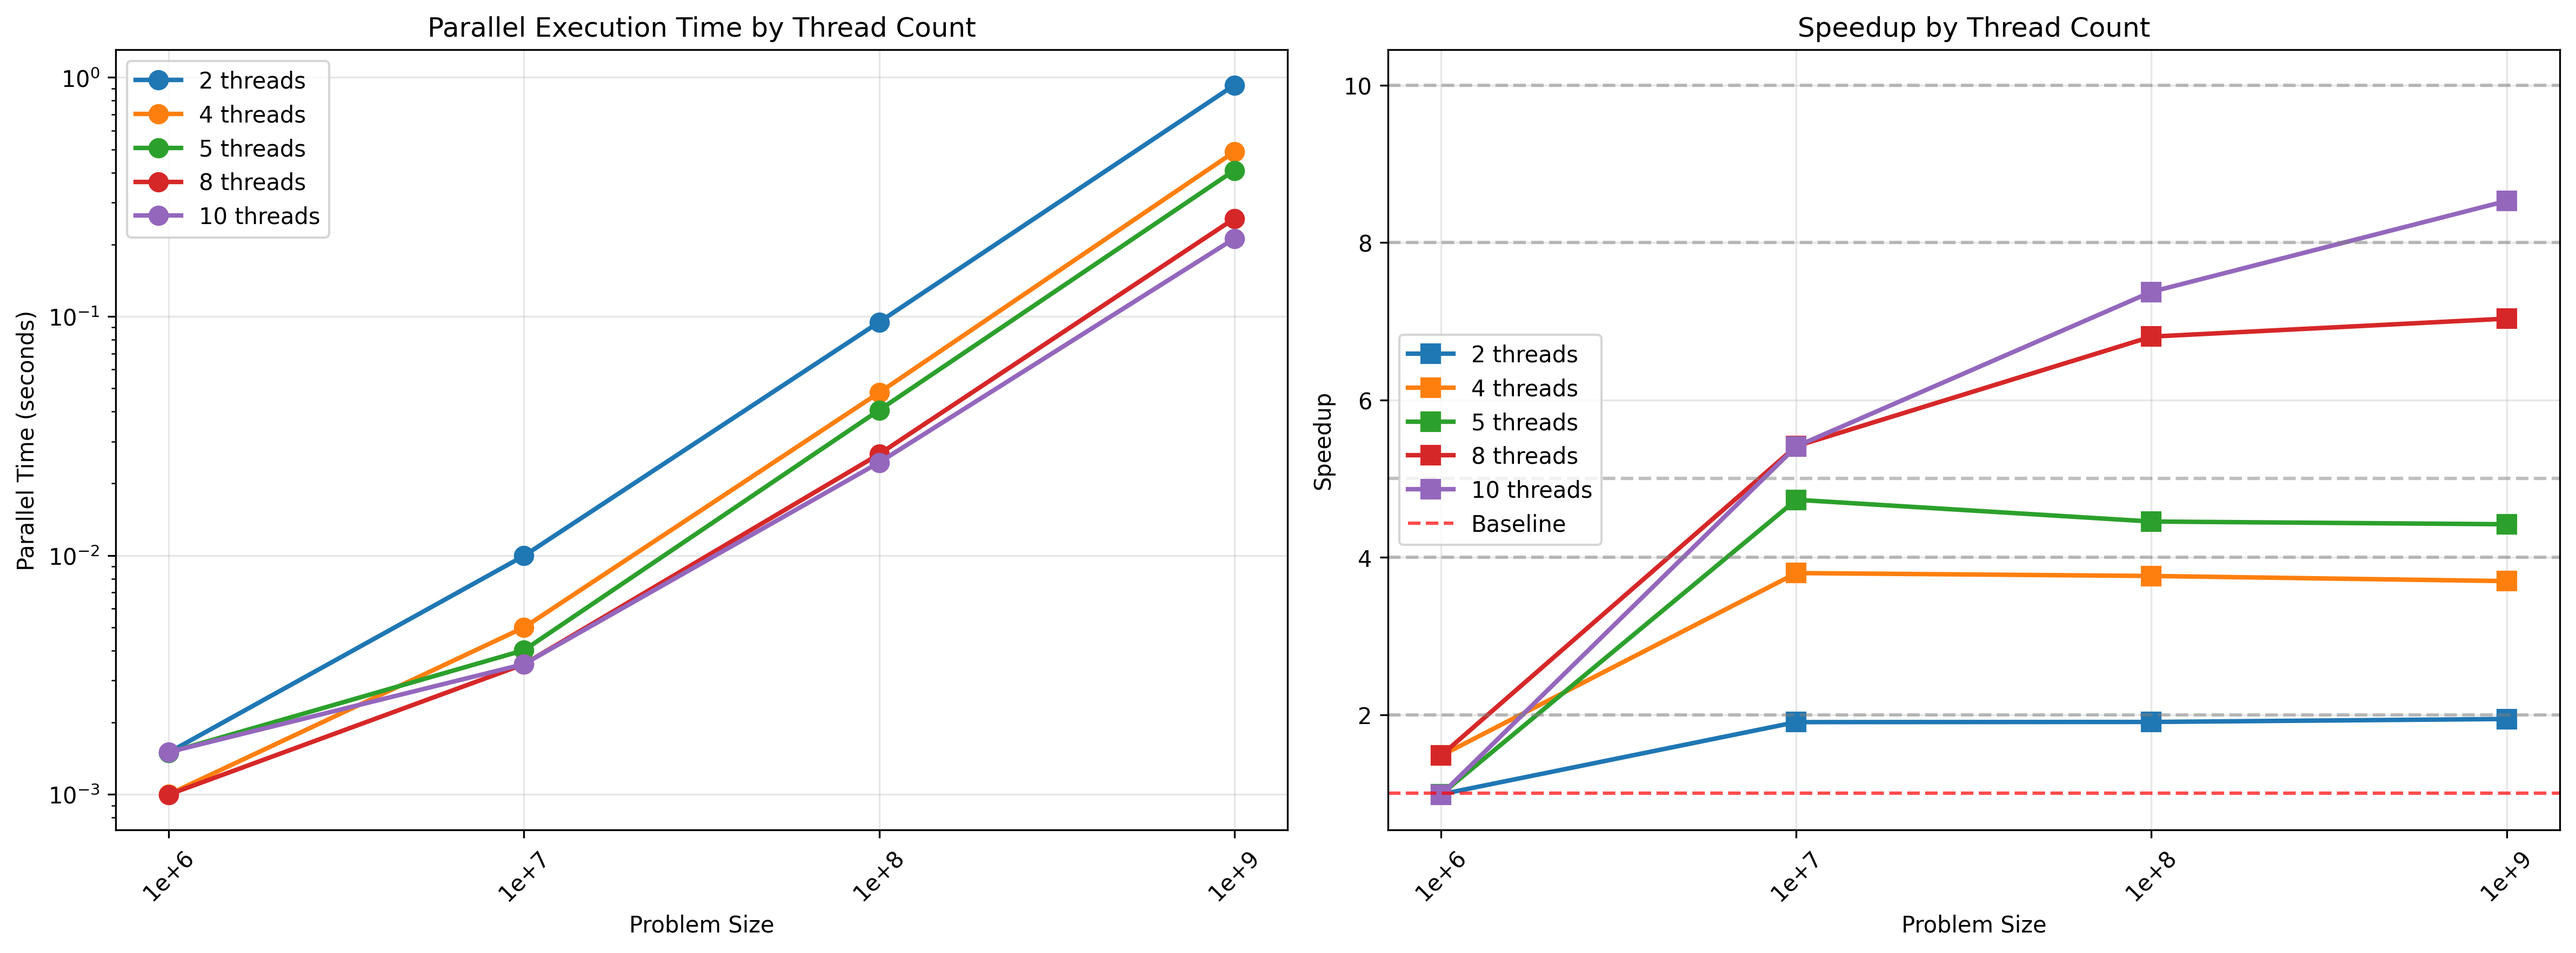
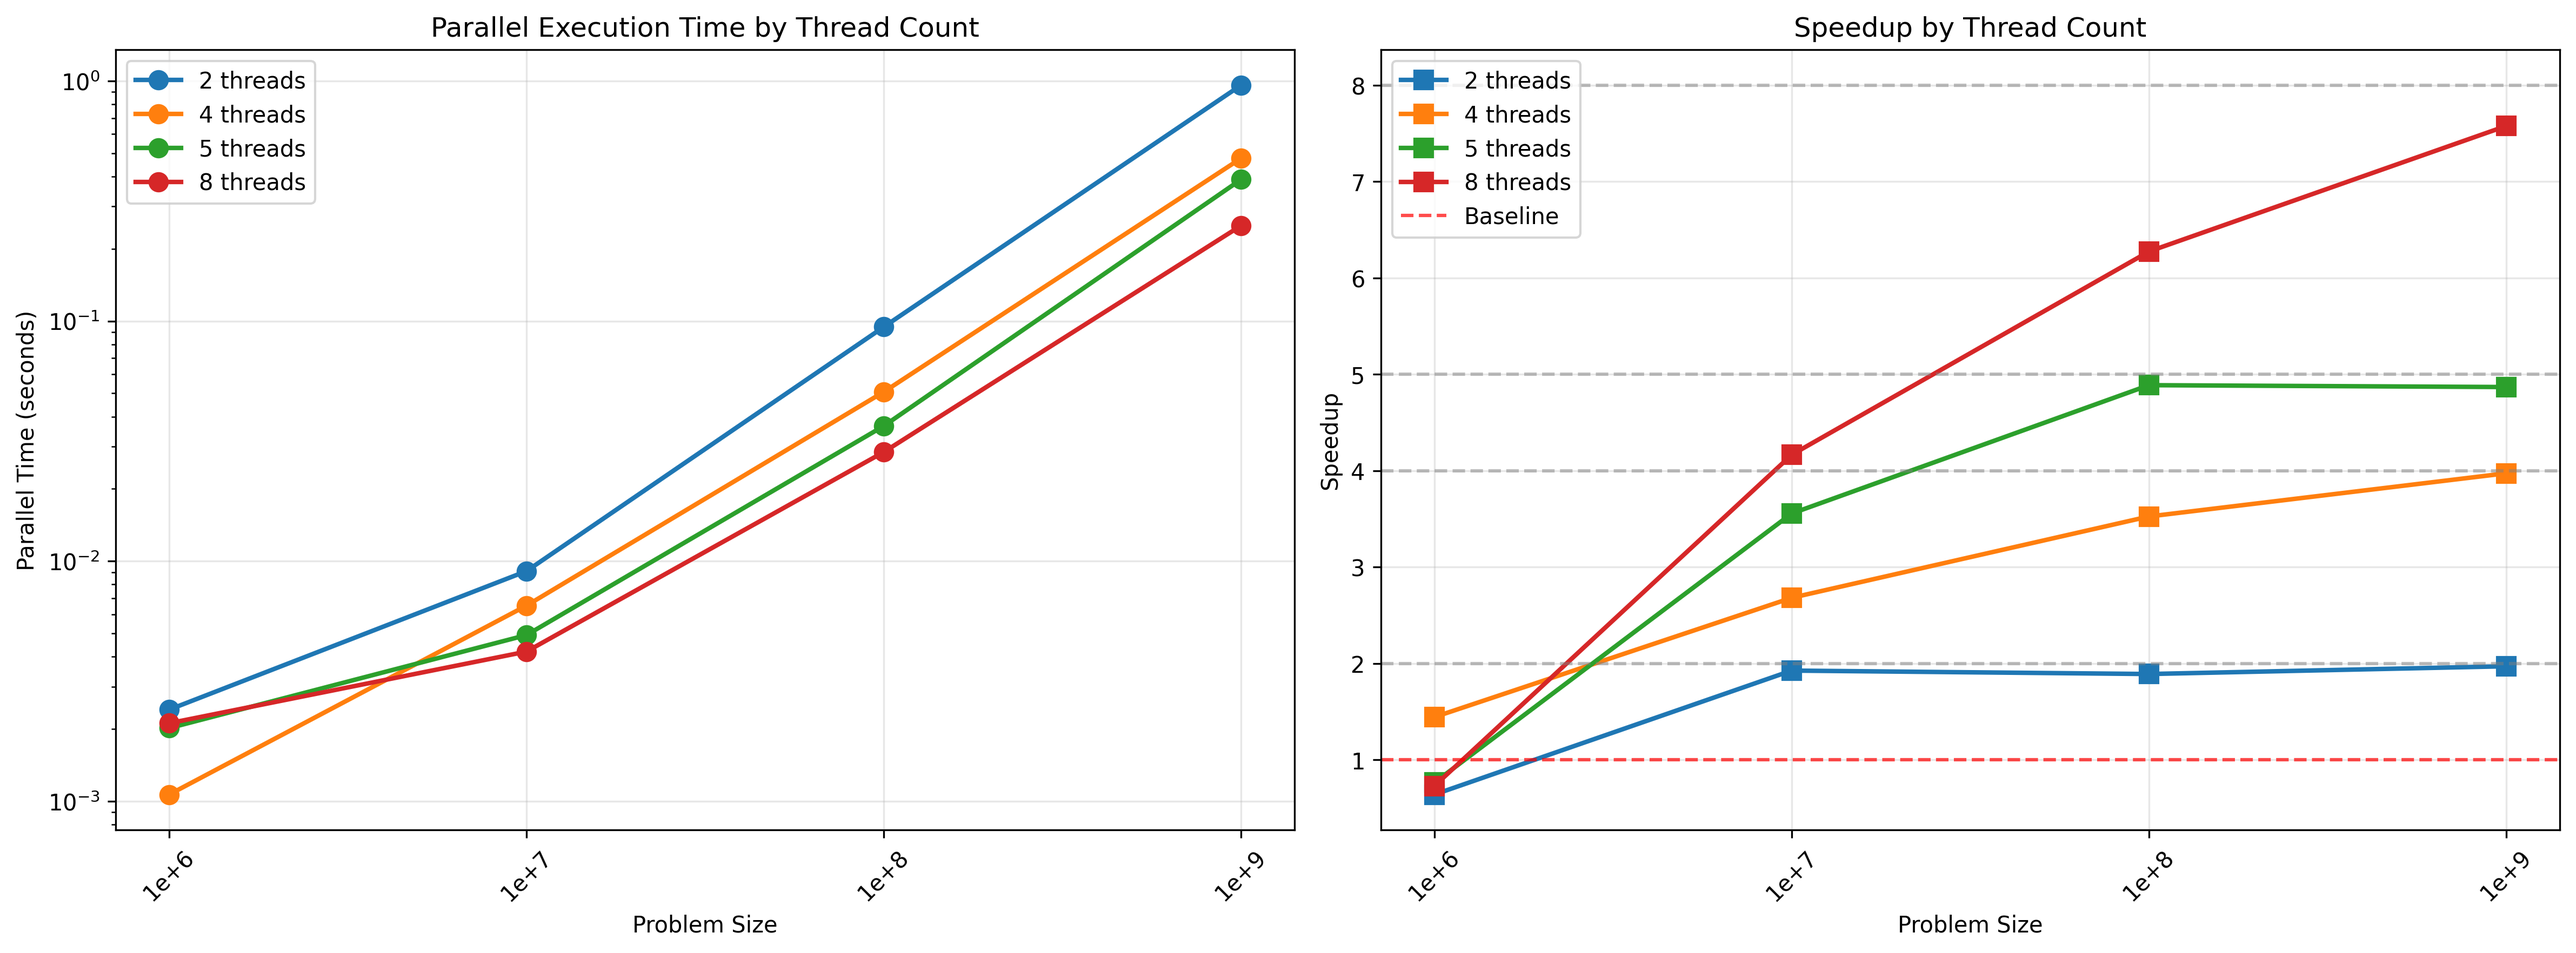
update num threads

diff --git a/plot_results2.py b/plot_results2.py
@@ -57,7 +57,7 @@ def read_and_process_data(filename):
         serial_time = row['serial_time']
         
         # Untuk setiap konfigurasi thread
-        for thread_col in [ 'nt2_time', 'nt4_time','nt5_time', 'nt8_time','nt10_time']:
+        for thread_col in [ 'nt2_time', 'nt4_time','nt5_time', 'nt8_time']:
             if thread_col in row:
                 # Ekstrak jumlah thread dari nama kolom
                 threads = int(thread_col.replace('nt', '').replace('_time', ''))

diff --git a/pthread1.c b/pthread1.c
@@ -102,7 +102,7 @@ int main(int argc, char* argv[]){
         printf("%d,%ld,%f,%f\n",num_thread,num_sum,paralel_time,serial_time);
     } else if(argc ==2){
         vector <double> paralel_times;
-        int thread_counts[] = {2,4,5,8,10};
+        int thread_counts[] = {2,4,5,8};
         for (int num_thread : thread_counts){
             double paralel_time = run_paralel(num_thread, num_sum);
             paralel_times.push_back(paralel_time);
